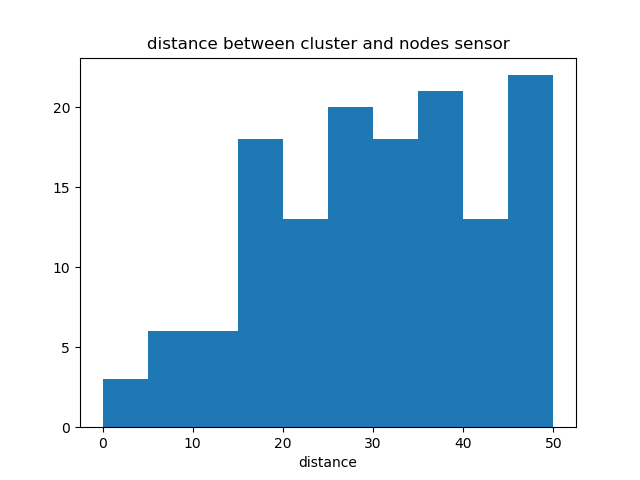
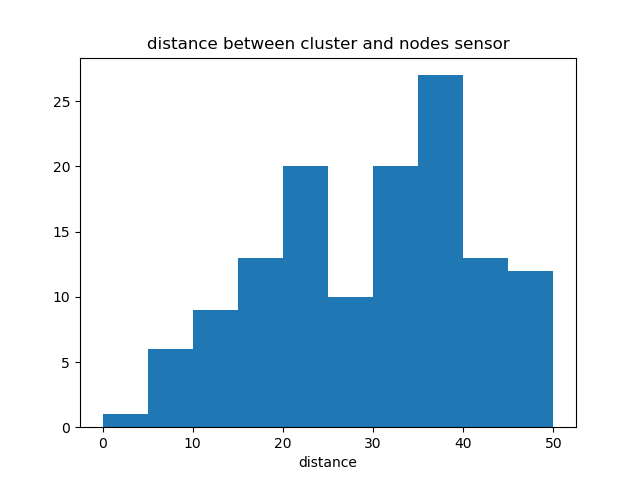
fixing...

diff --git a/l_3_(fixing value t and r2).py b/l_3_(fixing value t and r2).py
@@ -117,8 +117,7 @@ def distance_candidate(node_member, cch, pkt_control, elec_tran,\
             if b not in cluster_member:
                 node_member.append(b)
         print("nodes AFTER : "+str(len(node_member)))
-        print("Cluster member : "+str(len(cluster_member)))
-        
+        print("Cluster member : "+str(len(cluster_member))) 
 
     return cluster_member, node_member, dead
 
@@ -191,6 +190,9 @@ def nodes_select(cluster_member, node_member, pkt_control, elec_tran,\
         for k in range(len(cluster_select)):
             log_max = max(b for (a, b) in cluster_select[k])
             max_dis.append([k, log_max])
+    else:
+        node_select = []
+        max_dis = []
 
     return node_select, cluster_member, node_member, dead, data_distance, max_dis
 
@@ -246,32 +248,40 @@ def data_to_cluster(cluster_member, node_member, node_select, pkt_data, elec_tra
 
 def optimize_t(cluster_member, node_member, node_select, max_dis, r1):
 
-    for k in cluster_member:
-        if max_dis[1] > r1:
-            k[3] =  k[3] + 0.1
+    
+    for k in range(len(cluster_member)):
+        if max_dis[k][1] > r1 and cluster_member[k][3] <= 1 and cluster_member[k][3] >= 0:
+            cluster_member[k][3] =  round(cluster_member[k][3] + 0.1,1)
         else:
-            k[3] =  k[3] - 0.1
+            cluster_member[k][3] =  round(cluster_member[k][3] - 0.1,1)
 
     for i in max_dis:
         for j in range(len(node_member)):
             if node_select[j][0] == i[0]:
-                if i[1] > r1:
-                    node_member[j][3] = node_member[j][3] + 0.1
+                if i[1] > r1 and node_member[j][3] <= 1 and node_member[j][3] >= 0:
+                    node_member[j][3] = round(node_member[j][3] + 0.1,1)
                 else:
-                    node_member[j][3] = node_member[j][3] - 0.1
+                    node_member[j][3] = round(node_member[j][3] - 0.1,1)
     
     return cluster_member, node_member
 
 
 
 
-def back_to_nodes(cluster_member, node_member):
+def back_to_nodes(cluster_member, node_member, max_dis, r1):
     """ before next loop all cluster switch back to node_member """
     for cluster in cluster_member:
-        node_member.append(cluster)
+        if cluster not in node_member:
+            node_member.append(cluster)
     cluster_member = []
 ##    print("****************** ALL back to nodes ***")
 ##    print("nodes : "+str(len(node_member)))
+    print("r1 : "+str(r1))
+    for j in max_dis:
+        print(j)
+    print("*************************")
+    for i in node_member:
+        print(i)
 
     return cluster_member, node_member
 
@@ -304,7 +314,8 @@ def start():
     print("Choose 0 set new input")
     print("Choose 1 loop with fixed T-value")
     print("Choose 2 loop with dynamic T-value")
-    print("Choose 3 get 1 lap")
+    print("Choose 3 get 1 lap with fixed T-value")
+    print("Choose 4 get 1 lap with dynamic T-value")
     choose = int(input("choose : "))
     print(" ")
     print("*************************************")
@@ -431,6 +442,10 @@ def start():
                                 pkt_data, elec_tran, elec_rec, fs, mpf, \
                                 d_threshold, station_member,dead)
 
+
+            cluster_member, node_member = \
+                optimize_t(cluster_member, node_member, node_select, max_dis, r1)
+            
             
             #plot_graph(cluster_member, node_member, cch, station_member, r1,r2,data_distance)
 
@@ -477,7 +492,58 @@ def start():
             data_to_cluster(cluster_member, node_member, node_select, \
                             pkt_data, elec_tran, elec_rec, fs, mpf, \
                             d_threshold, station_member,dead)
-        
+
+
         plot_graph(cluster_member, node_member, cch, station_member, r1,r2,data_distance)
+    
+
+        cluster_member, node_member = \
+                back_to_nodes(cluster_member, node_member)
+
+    elif choose == 4:
+        dead = 0
+        count_lap = 0
+        station_member, node_member, data_distance = [], [], []
+        with open("station_member.csv", 'r') as csvnew:
+            read = csv.reader(csvnew)
+            for line1 in read:
+                station_member.append(list(map(int, line1)))
+        with open("node_member.csv", 'r') as csvnew:
+            read = csv.reader(csvnew)
+            for line2 in read:
+                node_member.append(list(map(float, line2)))
+        with open("len_nodes.txt", "r") as text_file:
+                len_nodes = int(text_file.read())
+
+        cch, node_member = \
+            random_cch(node_member, len_nodes)
+        
+
+        cluster_member, node_member ,dead = \
+            distance_candidate(node_member, cch, pkt_control, elec_tran,\
+                                elec_rec, fs, mpf, d_threshold, r1,dead)
+
+
+        node_select, cluster_member, node_member, dead , data_distance, max_dis = \
+            nodes_select(cluster_member, node_member, pkt_control, \
+                            elec_tran, elec_rec, fs, mpf, d_threshold,\
+                            r2, data_distance , dead)
+
+
+        cluster_member, node_member ,dead = \
+            data_to_cluster(cluster_member, node_member, node_select, \
+                            pkt_data, elec_tran, elec_rec, fs, mpf, \
+                            d_threshold, station_member,dead)
+        
+
+        cluster_member, node_member = \
+                optimize_t(cluster_member, node_member, node_select, max_dis, r1)
+
+
+        plot_graph(cluster_member, node_member, cch, station_member, r1,r2,data_distance)
+
+
+        cluster_member, node_member = \
+                back_to_nodes(cluster_member, node_member, max_dis, r1)
 
 start()
